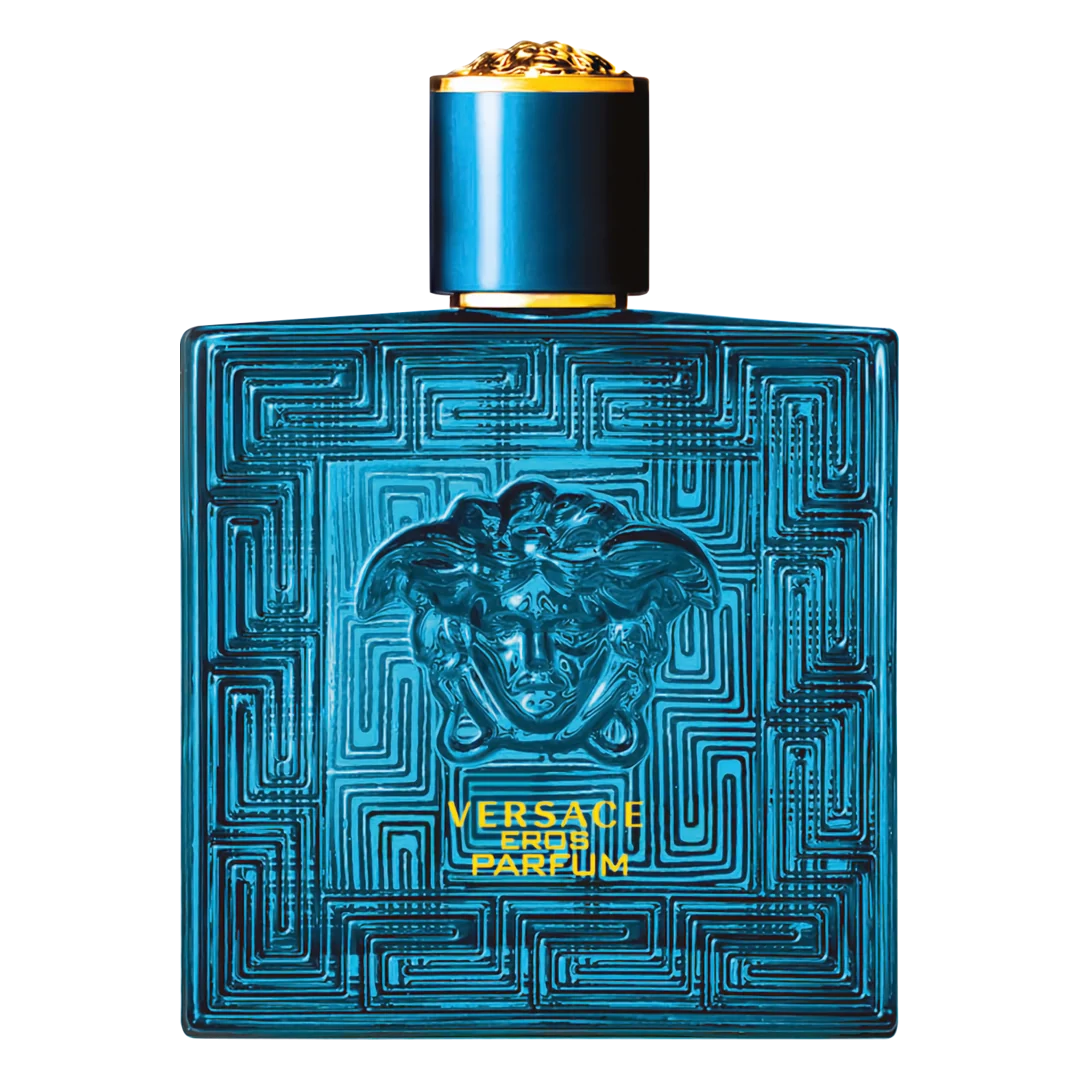
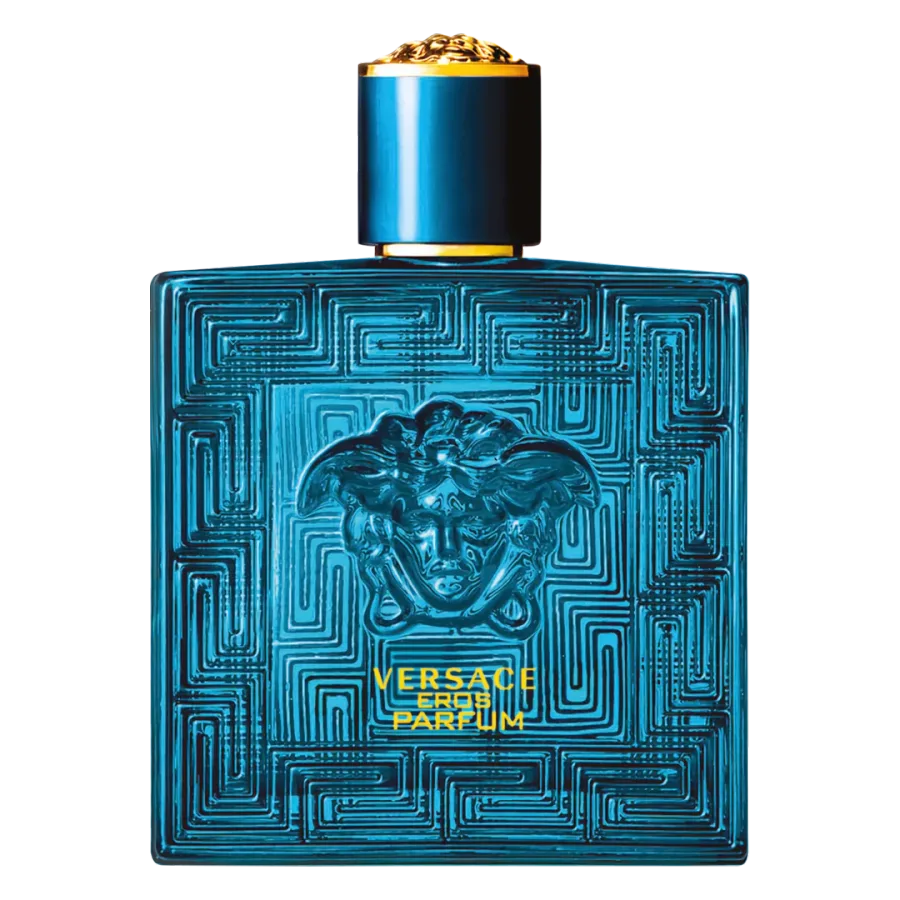
perf: optimize heavy product images to webp

Changed region(s): [[0.4356, 0.7467, 0.5911, 0.8089]]

diff --git a/src/data/products.ts b/src/data/products.ts
@@ -79,7 +79,7 @@ export const PRODUCTS: ProductItem[] = [
     id: 'bond-no-9-bleecker-street',
     name: 'Bond No. 9 Downtown Bleecker Street',
     category: 'Perfumes',
-    image: '/images/bond-no-9-bleecker-street.jpg',
+    image: '/images/bond-no-9-bleecker-street.webp',
     imageFit: 'contain',
     spec: '100 ml · Eau de Parfum',
     colorway: 'Amaderada / Hojas de violeta, mora y cedro',
@@ -145,7 +145,7 @@ export const PRODUCTS: ProductItem[] = [
     id: 'loewe-7-pour-homme',
     name: 'Loewe 7 Pour Homme',
     category: 'Perfumes',
-    image: '/images/loewe-7-pour-homme.jpg',
+    image: '/images/loewe-7-pour-homme.webp',
     imageFit: 'contain',
     spec: '150 ml · Eau de Toilette',
     colorway: 'Amaderada especiada / Incienso, baya de pimienta roja, manzana roja y cedro',
